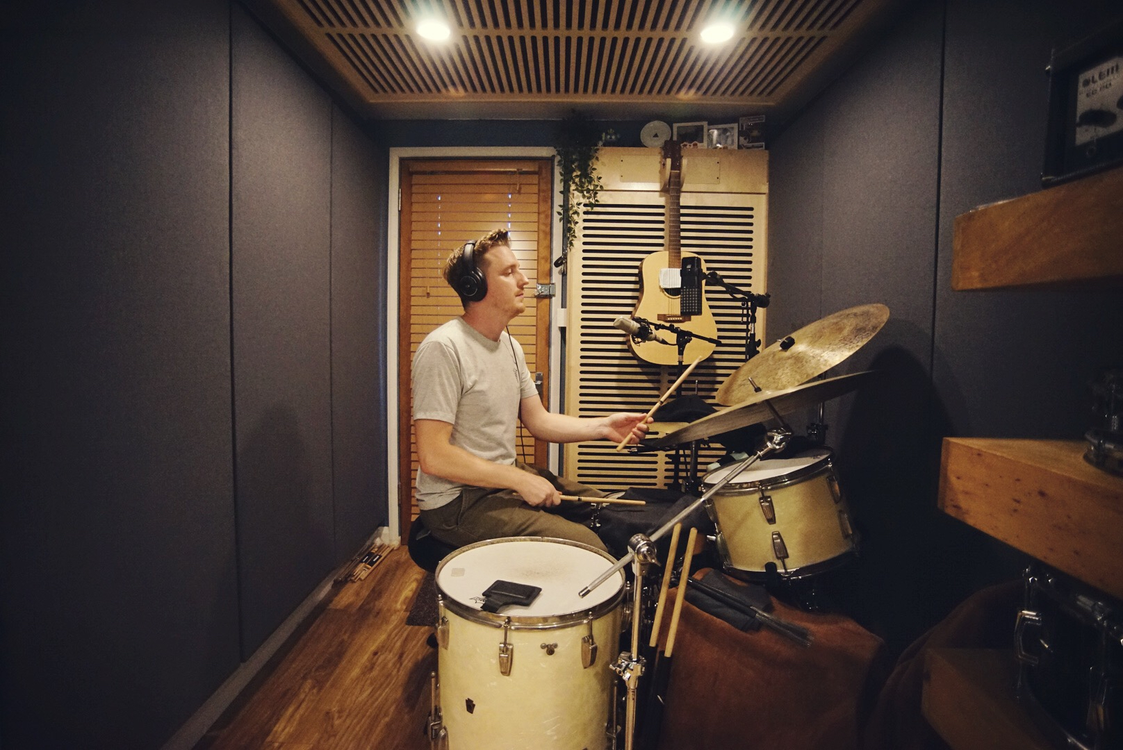
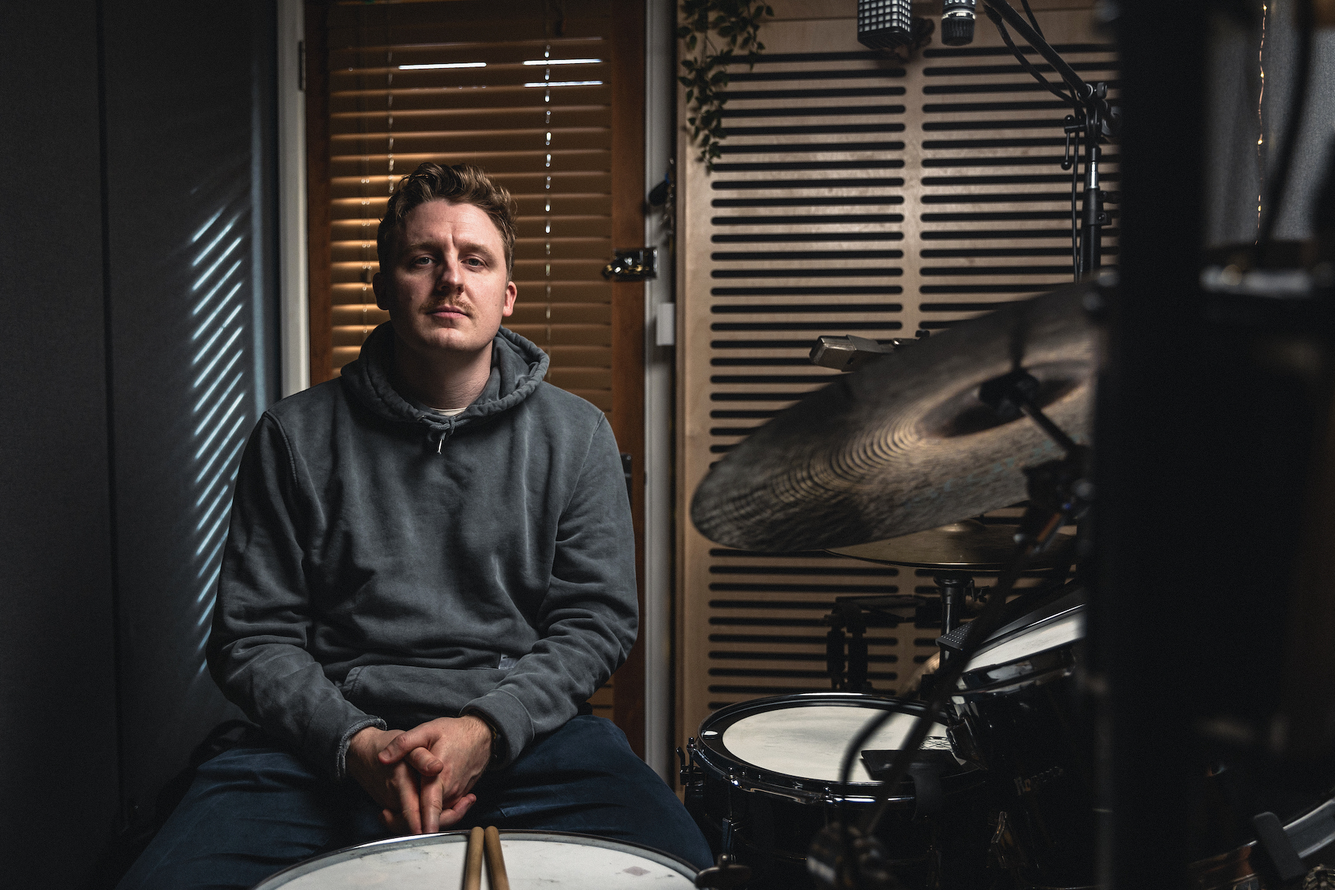
new pic and seo stuff

diff --git a/src/components/home.tsx b/src/components/home.tsx
@@ -21,7 +21,6 @@ const TitleSection = styled.div<TitleSectionProps, Theme>`
   color: ${({ textColor }) => textColor};
   h1 {
     font-size: ${({ theme }) => theme.fontSizes['5xl']};
-    line-height: 0.9;
     ${BP_MIN_XL} {
       font-size: ${({ theme }) => theme.fontSizes['6xl']};
     }
@@ -31,7 +30,7 @@ const TitleSection = styled.div<TitleSectionProps, Theme>`
 const Home = () => {
   const data = useStaticQuery(graphql`
     query {
-      studioImage: file(relativePath: { eq: "studio-home-2.jpg" }) {
+      studioImage: file(relativePath: { eq: "studio-home.jpg" }) {
         childImageSharp {
           fluid {
             ...GatsbyImageSharpFluid
@@ -71,12 +70,11 @@ const Home = () => {
           `}
         >
           <Container>
-            <h1>
-              Not
-              <br />
-              Paramount
-            </h1>
-            <p>Modest little recording gaff in Lewes, UK. <br />Predominantly drum recording by Chris Boot.</p>
+            <h1>Not Paramount recording studio</h1>
+            <h2>
+              A drum recording studio in Lewes, UK managed by session drummer
+              Chris Boot.
+            </h2>
             <CTALink to="#contact">Get in touch</CTALink>
           </Container>
         </TitleSection>

diff --git a/gatsby-config.js b/gatsby-config.js
@@ -7,10 +7,9 @@ const {
 const isNetlifyProduction = NETLIFY_ENV === 'production';
 const siteUrl = isNetlifyProduction ? NETLIFY_SITE_URL : NETLIFY_DEPLOY_URL;
 
-const siteTitle =
-  'Not Paramount - Professional drum recording and production services';
+const siteTitle = 'Not Paramount | Drum Recording & Music Production Studio';
 const siteDescription =
-  'Not Paramount is a professionally designed studio in Lewes, UK offering a variety of production services including mixing, mastering, podcast editing and more.';
+  'Not Paramount is a professional drum studio offering a variety of drum and audio production services managed by session drummer Chris Boot. Find out more.';
 
 module.exports = {
   siteMetadata: {

diff --git a/src/global-styles.ts b/src/global-styles.ts
@@ -263,8 +263,7 @@ export const globalStyles = css`
     color: inherit;
     font-weight: bold;
     text-rendering: optimizeLegibility;
-    font-size: 1.62671rem;
-    line-height: 1.1;
+    font-size: 1.5rem;
   }
   h3 {
     margin-left: 0;
